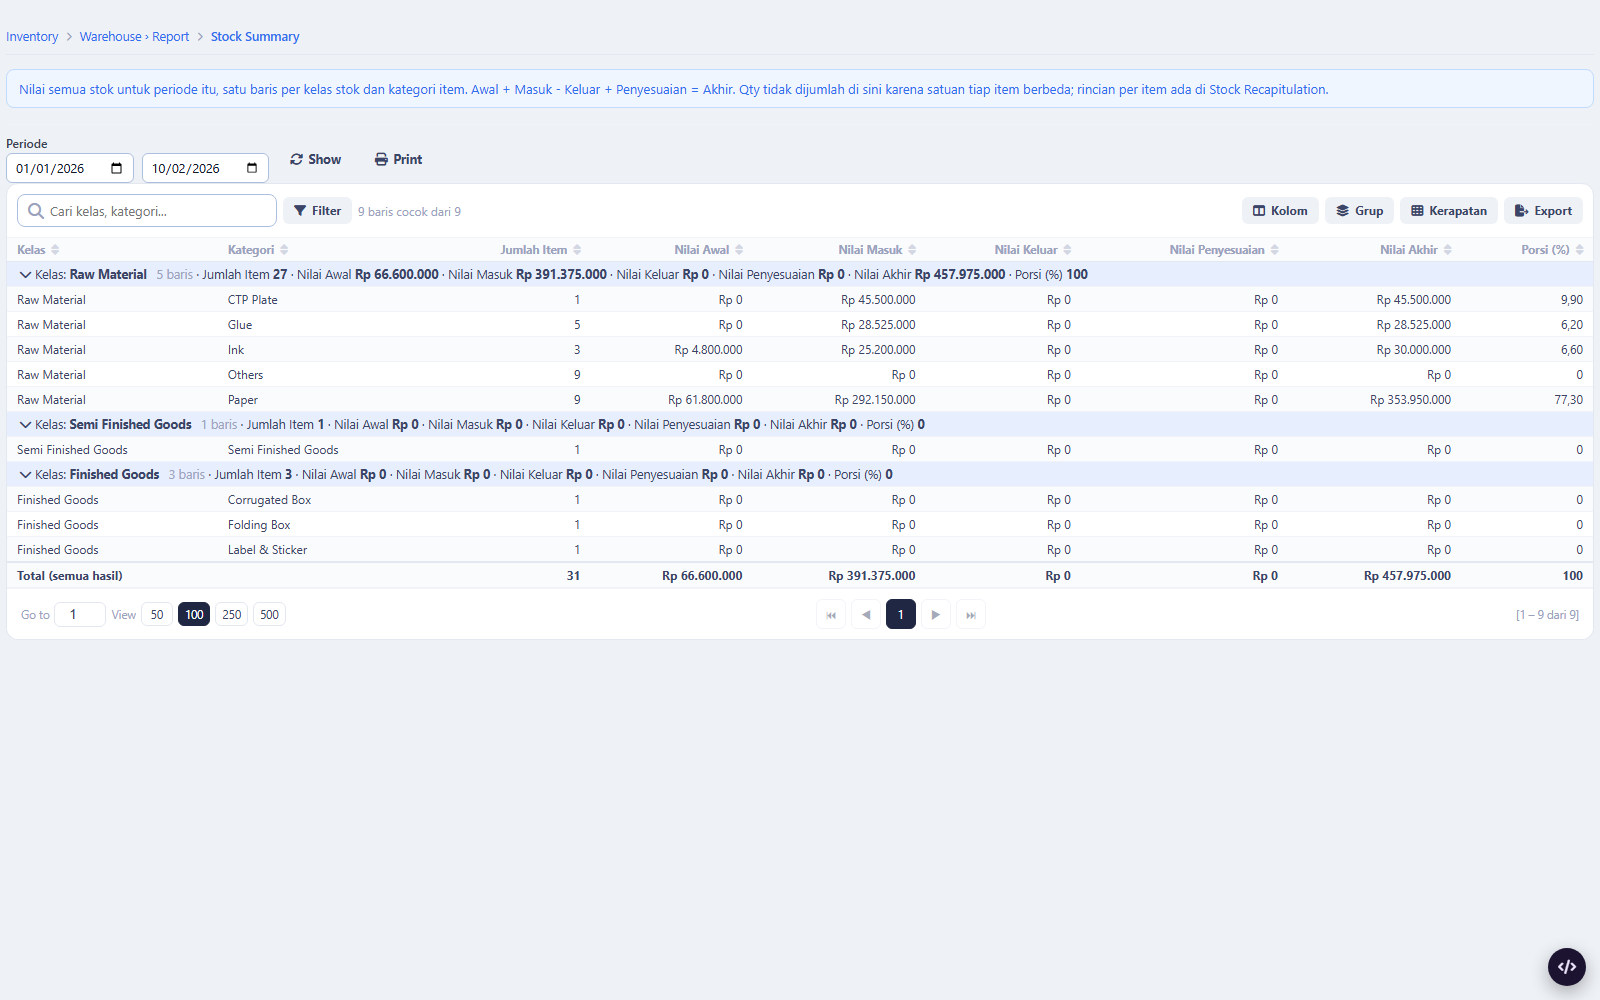
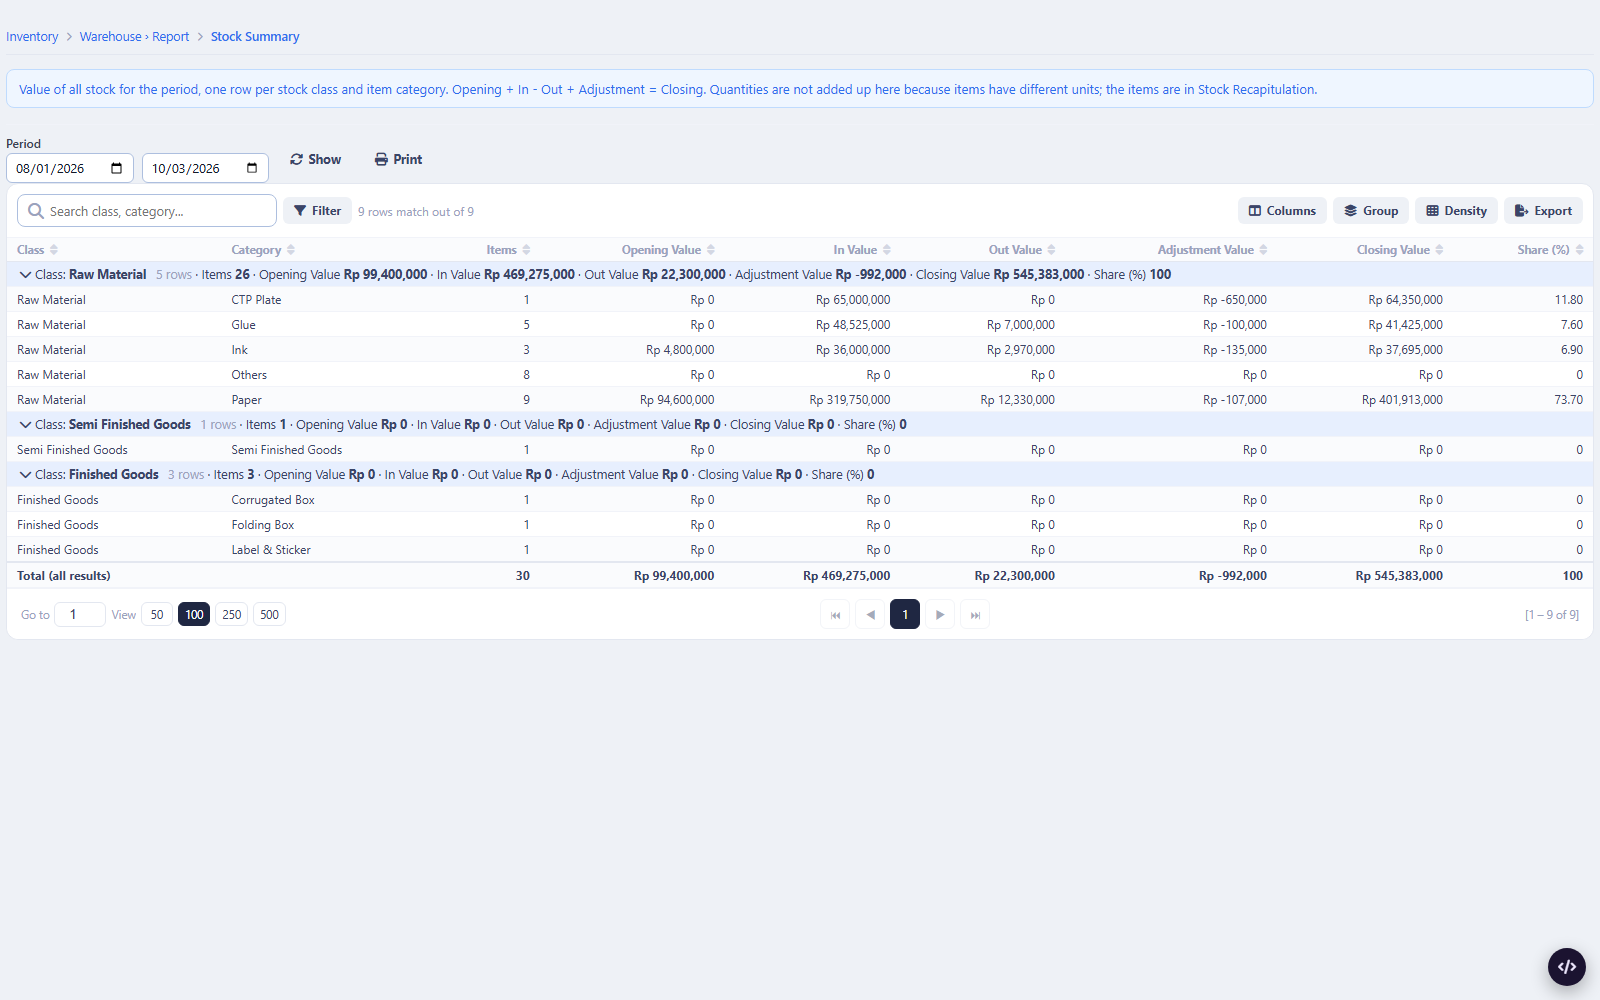
Docs: stock report screenshots with the dummy data, and one from the live site

diff --git a/docs/md_for_systems/inventoryreport_review.md b/docs/md_for_systems/inventoryreport_review.md
@@ -7,7 +7,8 @@ warehouse, loss and gain all items every monthly"* — dengan acuan ERP populer 
 Situs: **mockup.test** (database dummy `ddt*`) dan **tmerp.test** (`tm2*`), terpasang 2026-10-03. Menu di keduanya:
 **Inventory > Warehouse > Report** (di menu lama tmerp.test tampil sebagai grup "Warehouse › Report" di sidebar Inventory).
 Tangkapan layar dari situs dummy: `docs/mockups/inventory_report_app/` (1 Stock Card, 2 Stock Recapitulation, 3 Stock Summary,
-4 Stock Opname, 5 Stock Loss & Gain, 6 Stock in Inspection, 7 Stock by Location, 8 dan 9 cetakan).
+4 Stock Opname, 5 Stock Loss & Gain, 6 Stock in Inspection, 7 Stock by Location, 8 dan 9 cetakan, 10 Stock Recapitulation di
+tmerp.test). Gambar 3 sampai 6 diambil sesudah data dummy laporan dipasang (2026-10-03).
 
 ## 1. Yang bisa dibuka sekarang
 
